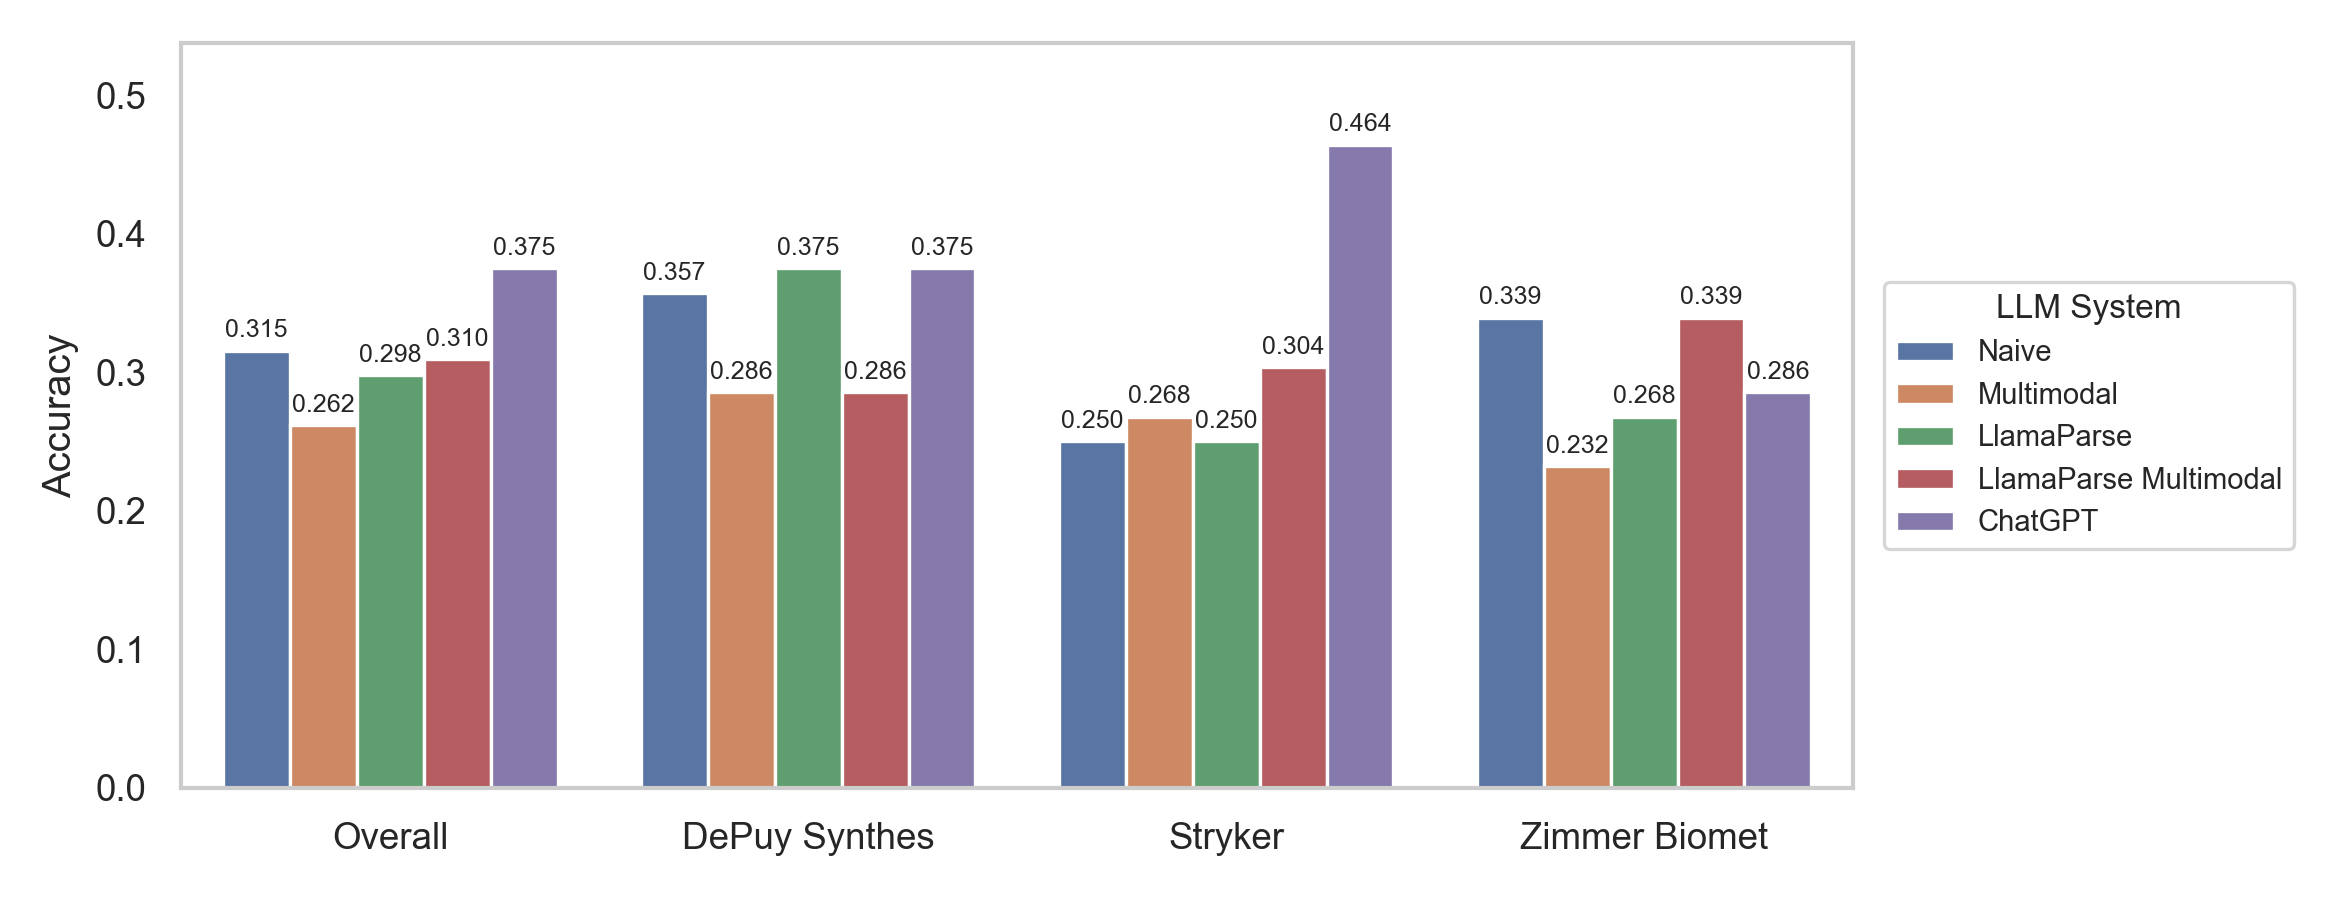
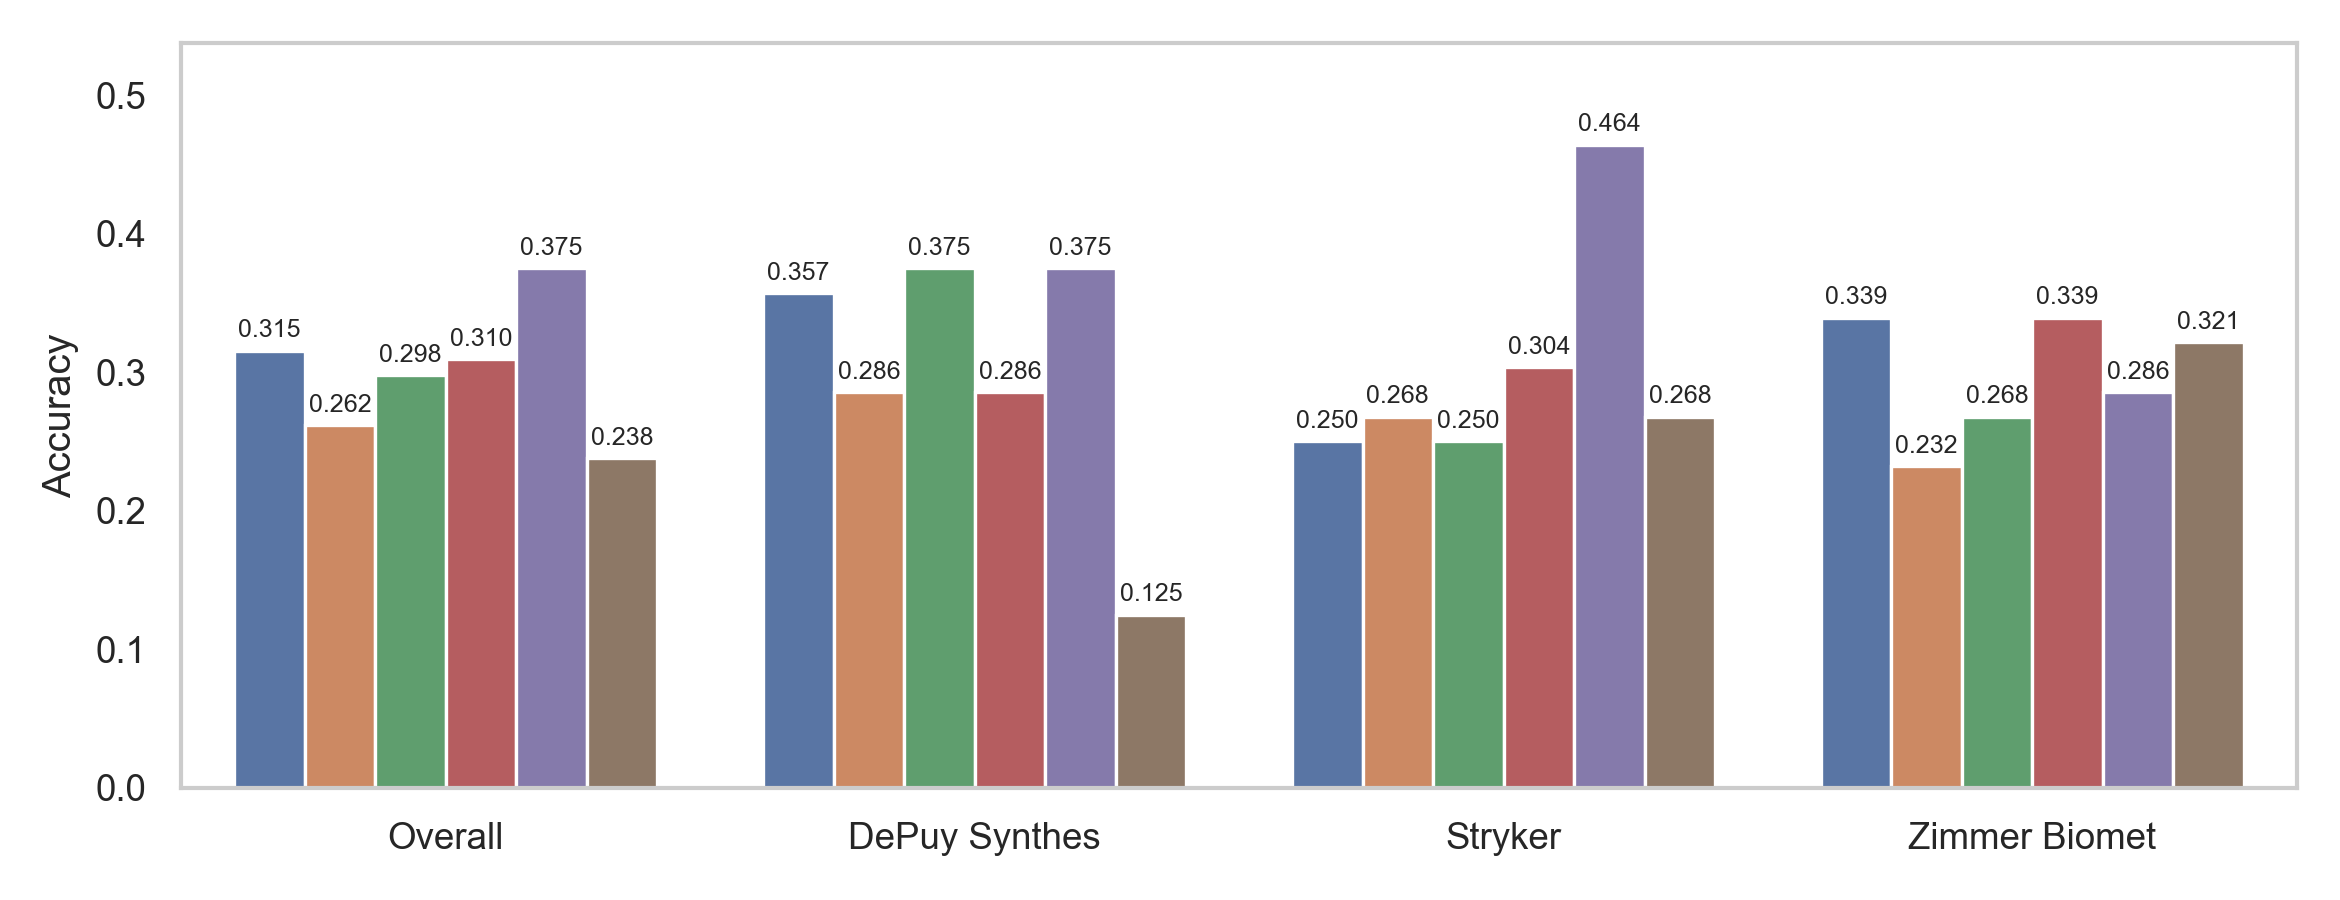
add modified figures

diff --git a/figure_generation/create_figures.py b/figure_generation/create_figures.py
@@ -9,7 +9,7 @@ curr_dir = Path(__file__).parent
 sns.set_theme(context="paper", style="whitegrid")
 
 
-models = ["Naive", "Multimodal", "LlamaParse", "LlamaParse Multimodal", "ChatGPT"]
+models = ["Naive", "Multimodal", "LlamaParse", "LlamaParse Multimodal", "ChatGPT (Document Upload)", "ChatGPT"]
 model_to_normalized_name = {model: f"Normalized {model}" for model in models}
 normalized_name_to_model = {f"Normalized {model}": model for model in models}
 models_normalized = [model_to_normalized_name[model] for model in models]
@@ -33,7 +33,8 @@ def fig1():
 
     fig, ax = plt.subplots(figsize=(7.8, 3))
     barplot = sns.barplot(
-        data=melted, x="Document", y="Accuracy", hue="LLM System", ax=ax
+        data=melted, x="Document", y="Accuracy", hue="LLM System", ax=ax,
+        legend=False
     )
     ax.set_xlabel("")
     ax.grid(False)
@@ -44,14 +45,13 @@ def fig1():
         )
 
     ax.set_ylim(ax.get_ylim()[0], ax.get_ylim()[1] + 0.05)
-
-    ax.legend(
-        title="LLM System",
-        bbox_to_anchor=(1.01, 0.5),
-        loc="center left",
-        fontsize=7,
-        title_fontsize=8,
-    )
+    # ax.legend(
+    #     title="LLM System",
+    #     bbox_to_anchor=(1.01, 0.5),
+    #     loc="center left",
+    #     fontsize=7,
+    #     title_fontsize=8,
+    # )
 
     fig.tight_layout()
     fig.savefig(curr_dir / "figures" / "fig1.png", dpi=300)
@@ -78,7 +78,7 @@ def fig2():
         id_vars="Question Type", var_name="LLM System", value_name="Accuracy"
     )
 
-    fig, ax = plt.subplots(figsize=(6.2, 3))
+    fig, ax = plt.subplots(figsize=(7, 3))
     barplot = sns.barplot(
         data=melted, x="Question Type", y="Accuracy", hue="LLM System", ax=ax
     )
